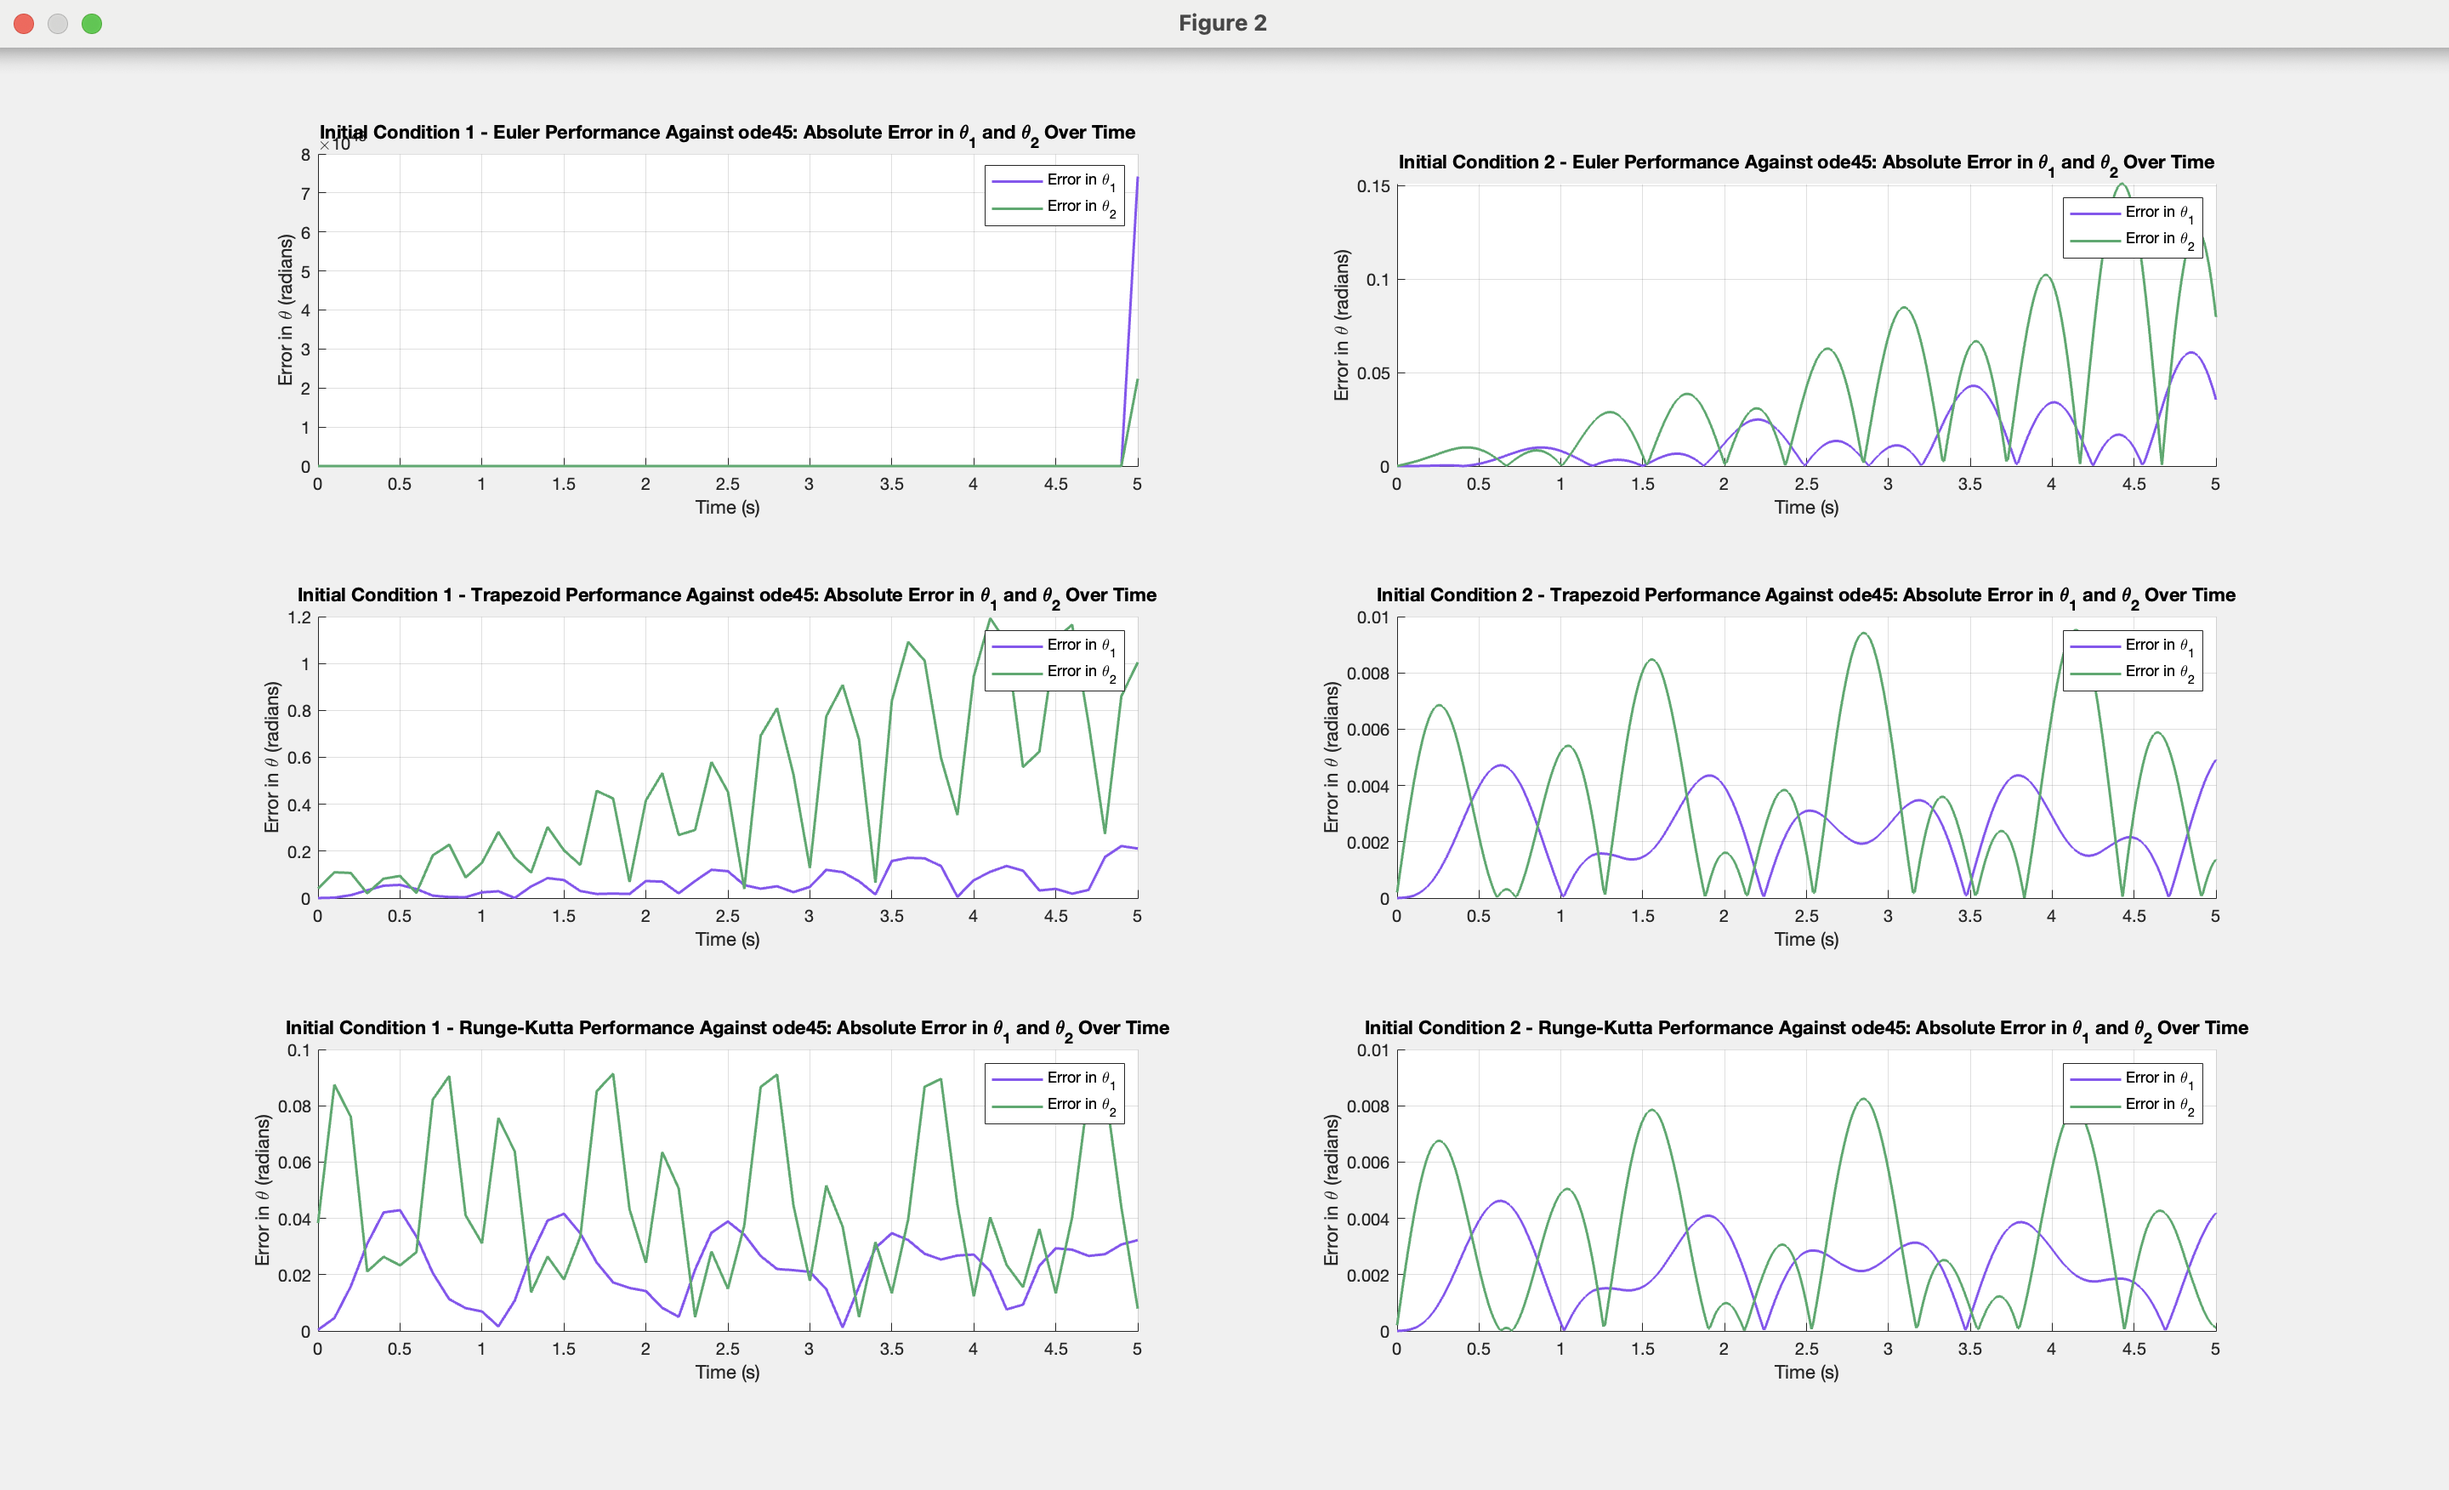
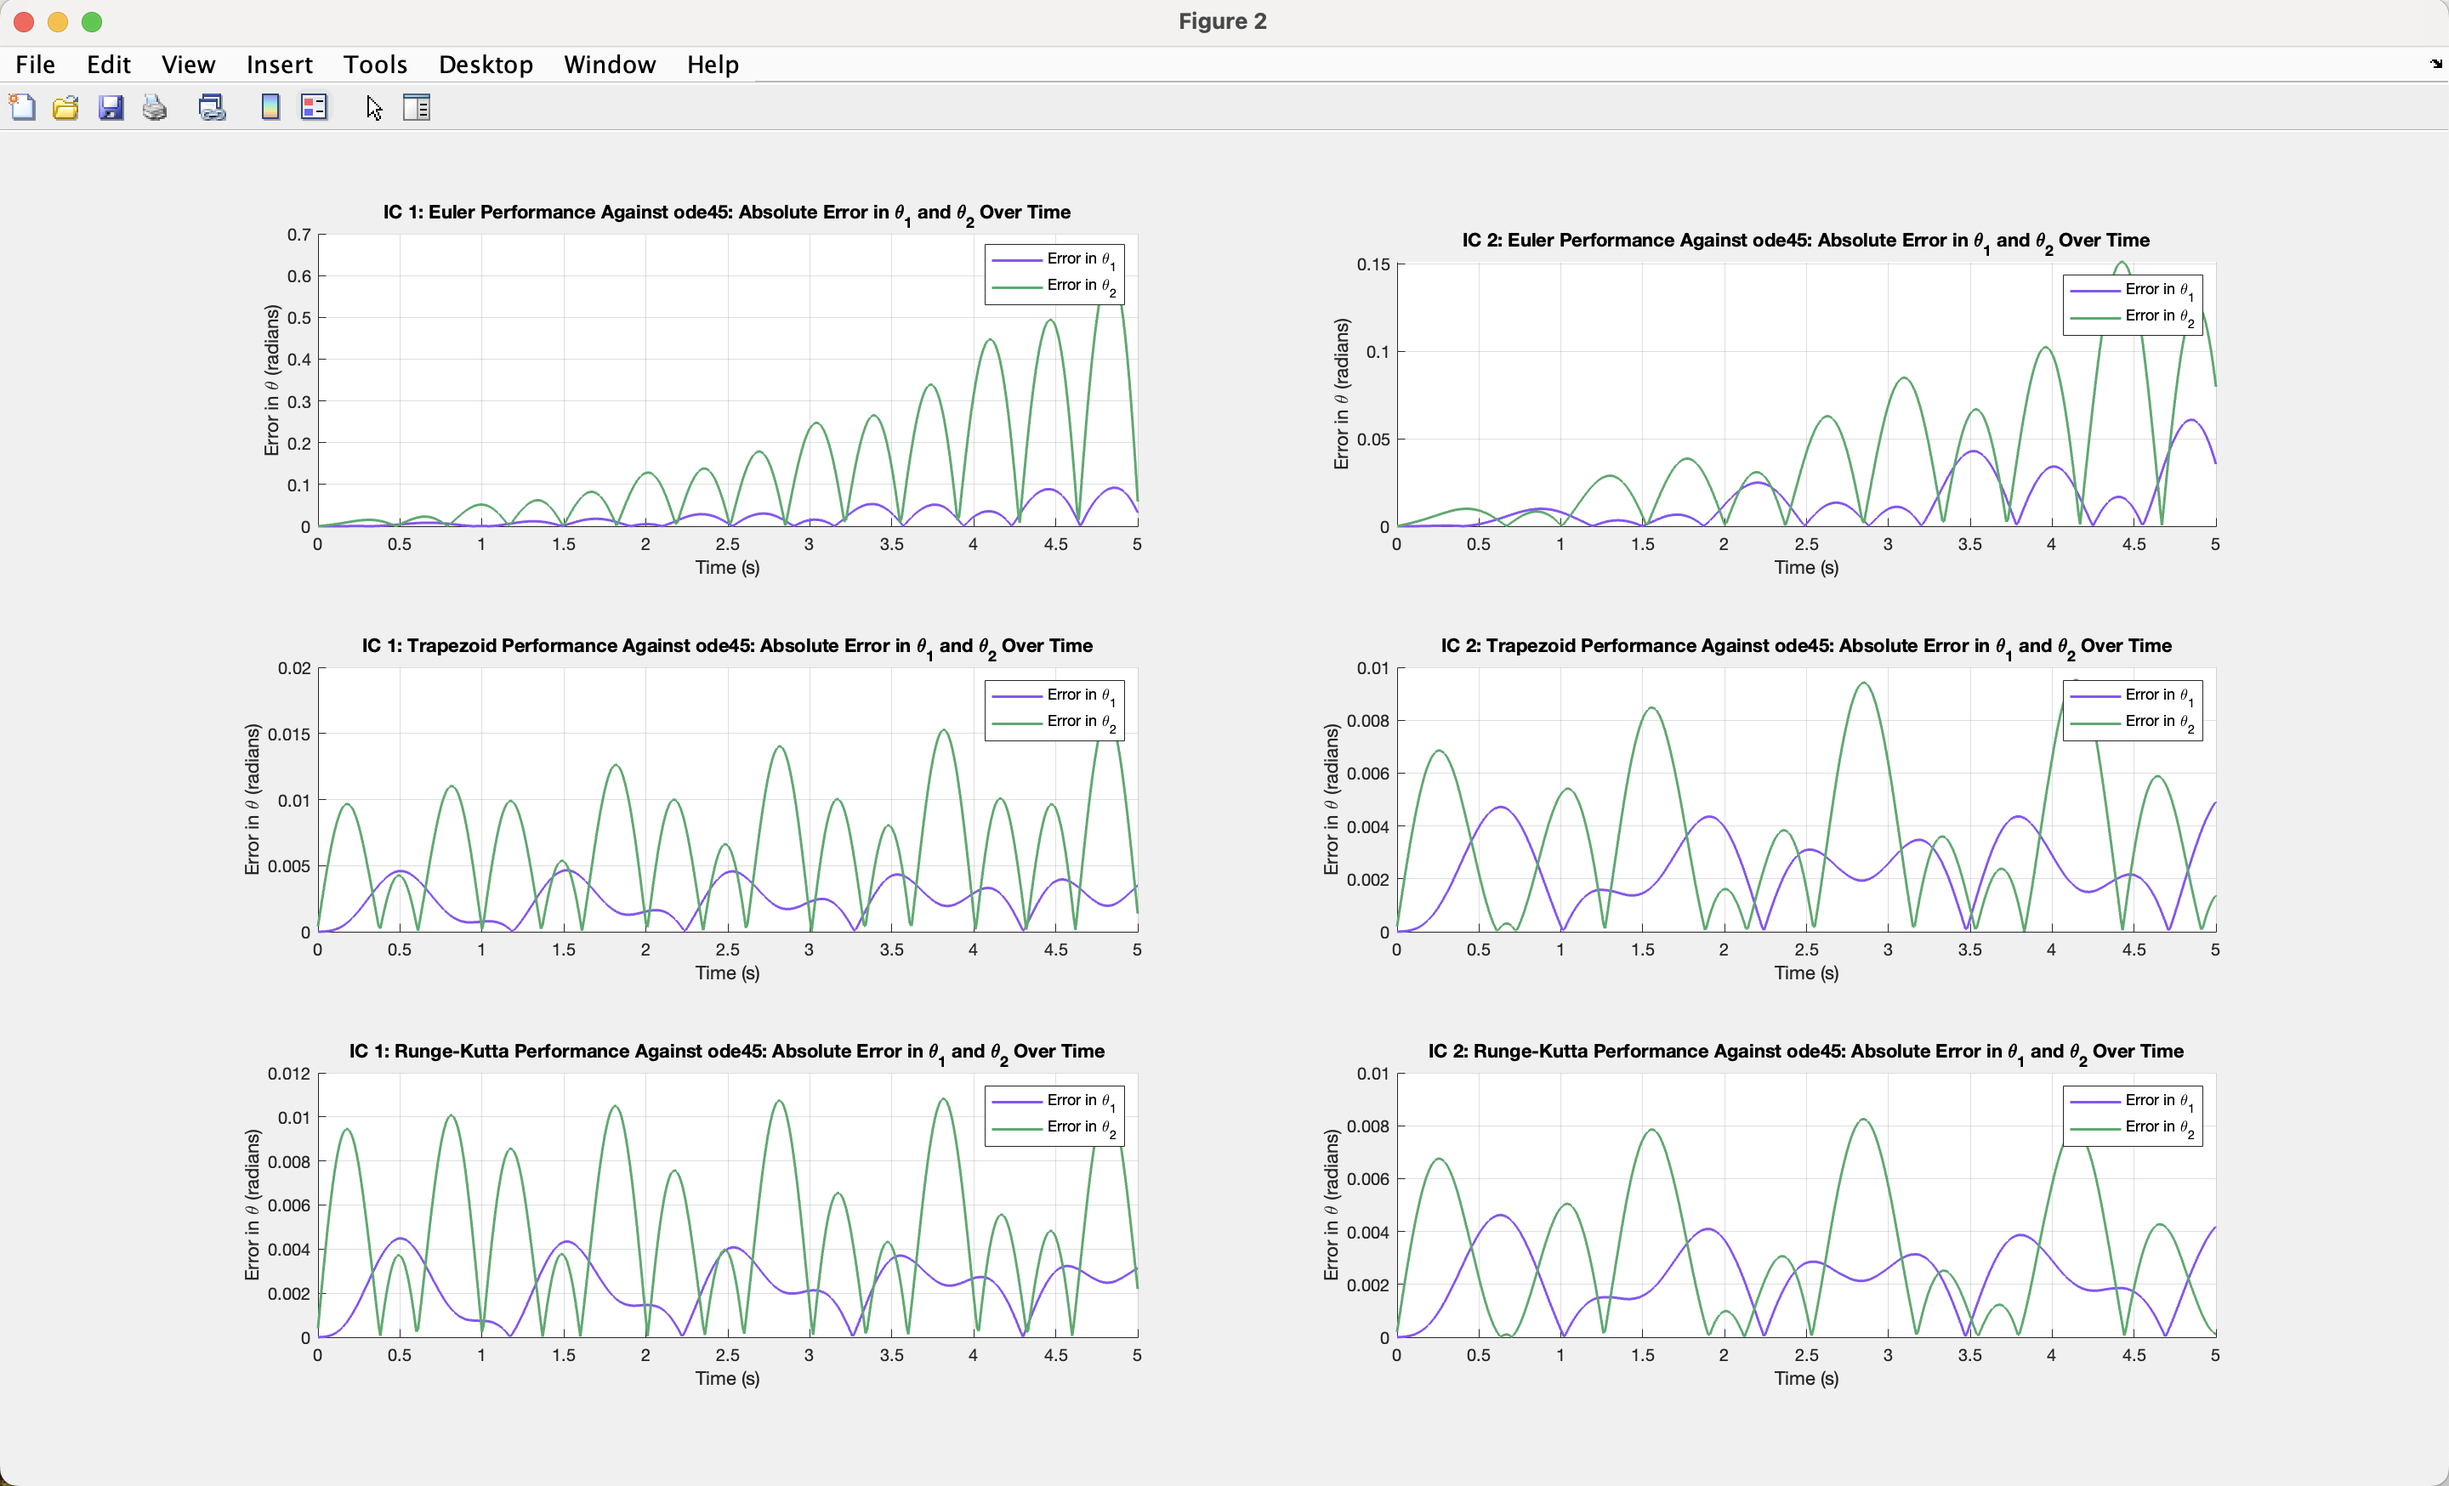
Update example figures

diff --git a/README.md b/README.md
@@ -20,7 +20,7 @@ _Notes_:
 
 ## Project Files:
 
-1. *Function* `EOM.m` - Contains two functions, `M1AA.m` and `M2AA.m`, both of which calculate angular momentum $$\ddot{\theta_{i}}$$ of $$\theta_{i}$$ given the current values of $$\theta_{1}$$, $$\dot{\theta_{1}}$$, $$\theta_{2}$$, $\dot{\theta_{2}}$ at the $n$-th state.
+1. *Function* `EOM.m` - Contains two nested functions, `M1AA.m` and `M2AA.m`, both of which calculate angular momentum $$\ddot{\theta_{i}}$$ of $$\theta_{i}$$ given the current values of $$\theta_{1}$$, $$\dot{\theta_{1}}$$, $$\theta_{2}$$, $\dot{\theta_{2}}$ at the $n$-th state.
 
 2. *Function* `RungeKutta.m` - Calculates the $$(n+1)$$-th state values of $$\theta_{1}$$, $$\dot{\theta_{1}}$$, $$\theta_{2}$$, $$\dot{\theta_{2}}$$ given them at the $$n$$-th state. Takes the weighted average of the intermediate slopes $$k_{1}$$ through $$k_{4}$$. Calls `M1AA.m` and `M2AA.m`.
 
@@ -38,10 +38,10 @@ _Notes_:
 
 ## Output
 
-### Example Figure 1 (Outdated):
+### Example Figure 1:
 
 <center>
-    <img src="resources/ex_figure_1.gif" alt="Figure 1" width="400"/>
+    <img src="resources/ex_figure_1.gif" alt="Figure 1" width="1000"/>
 </center>
 
 ### Example Figure 2:
